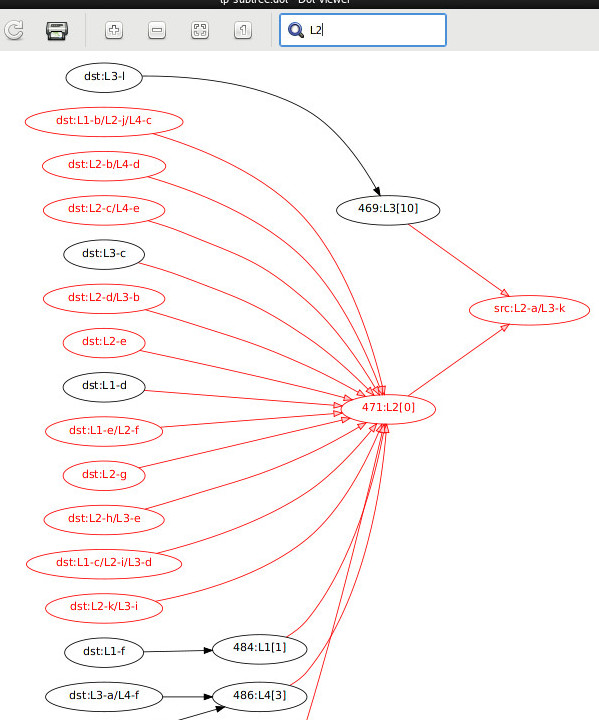
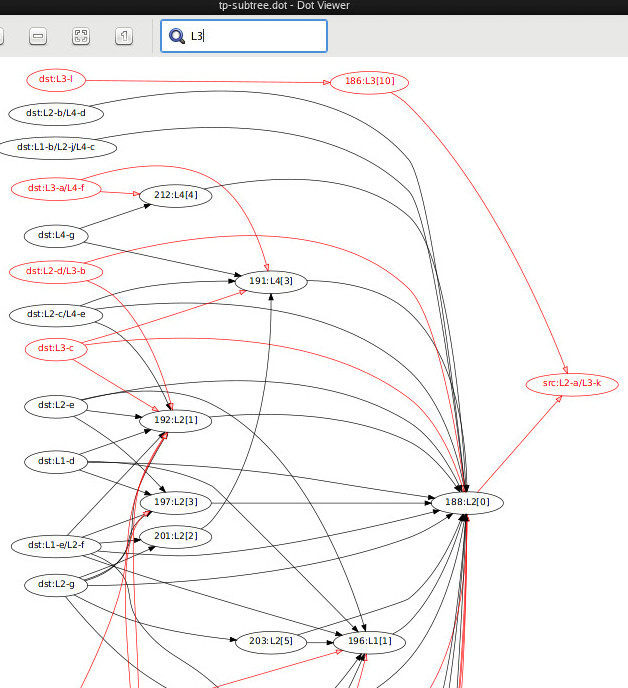
engine.build_tp_tree: fix pareto-optimality checks for stop labels

diff --git a/tb_routing/engine.py b/tb_routing/engine.py
@@ -367,7 +367,9 @@ class TBRoutingEngine:
 
 		DepartureCriteriaCheck = namedtuple('DCCheck', 'trip stopidx dts_src ts_list')
 		TripSegment = namedtuple('TripSeg', 'trip stopidx_a stopidx_b ts_list')
-		StopLabelSet = ft.partial(t.pareto.ParetoSet, lambda v: (v[-1].dts_arr, len(v) - 1))
+		StopLabel = namedtuple('StopLabel', 'dts_dep dts_arr ts_list') # dts_dep -> ts_list -> dts_arr
+		StopLabelSet = ft.partial( t.pareto.ParetoSet,
+			lambda v: (v.dts_arr, len(v.ts_list) - 1, v.dts_dep) )
 
 		tree = t.tp.TPTree() # adj-lists, with nodes being either Stop or Line objects
 		stop_labels = dict() # {stop: ts_list (all TripStops on the way from stop_src to stop)}
@@ -377,7 +379,7 @@ class TBRoutingEngine:
 			'Ensures that each TripStop is only ever processed once via trip_tails_checked index.'
 			n, i_max = len(ts_list), len(trip) - 1
 			if i >= trip_tails_checked.get((n, trip), i_max): return
-			queue.append(TripSegment(trip, i, trip_tails_checked.get((n, trip), i_max), ts_list))
+			queue.append(TripSegment(trip, i, trip_tails_checked.get((n, trip), i_max), ts_list.copy()))
 			for trip_u in lines.line_for_trip(trip)\
 					.trips_by_relation(trip, _ss.non_dominated, _ss.equal):
 				i_min = min(i, trip_tails_checked.get((n, trip_u), i_max))
@@ -414,7 +416,7 @@ class TBRoutingEngine:
 							for stop_q, dt_fp in timetable.footpaths.to_stops_from(ts.stop):
 								stop_q_arr = ts.dts_arr + dt_fp
 								if stop_q not in stop_labels: stop_labels[stop_q] = StopLabelSet()
-								stop_labels[stop_q].add(ts_list)
+								stop_labels[stop_q].add(StopLabel(dts_src, stop_q_arr, ts_list))
 
 							for transfer in transfers.from_trip_stop(ts):
 								enqueue(transfer.ts_to.trip, transfer.ts_to.stopidx, ts_list)
@@ -425,7 +427,7 @@ class TBRoutingEngine:
 				node_dst = subtree.node(stop_dst)
 				for sl in sl_set:
 					node = node_dst
-					for ts in reversed(sl):
+					for ts in reversed(sl.ts_list):
 						node_prev, node = node, subtree.node(
 							t.base.LineStop(lines.line_for_trip(ts.trip), ts.stopidx), no_path_to=node )
 						node_prev.edges_to.add(node)
